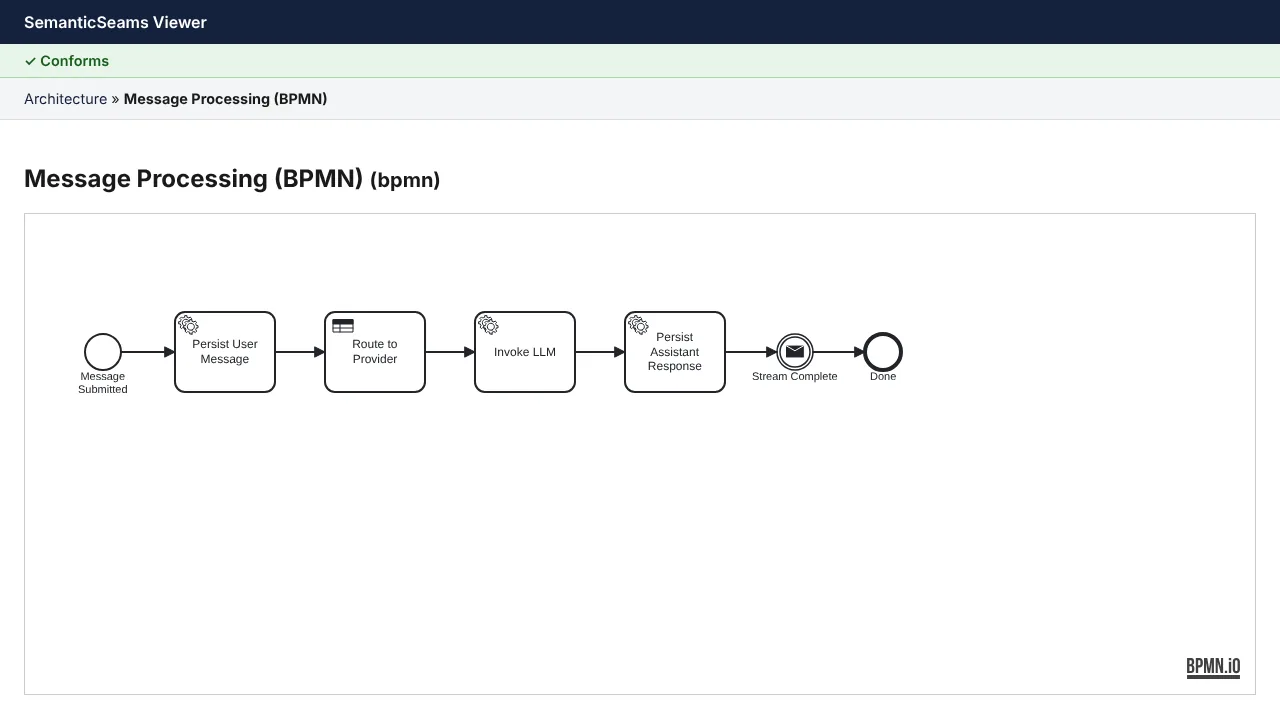
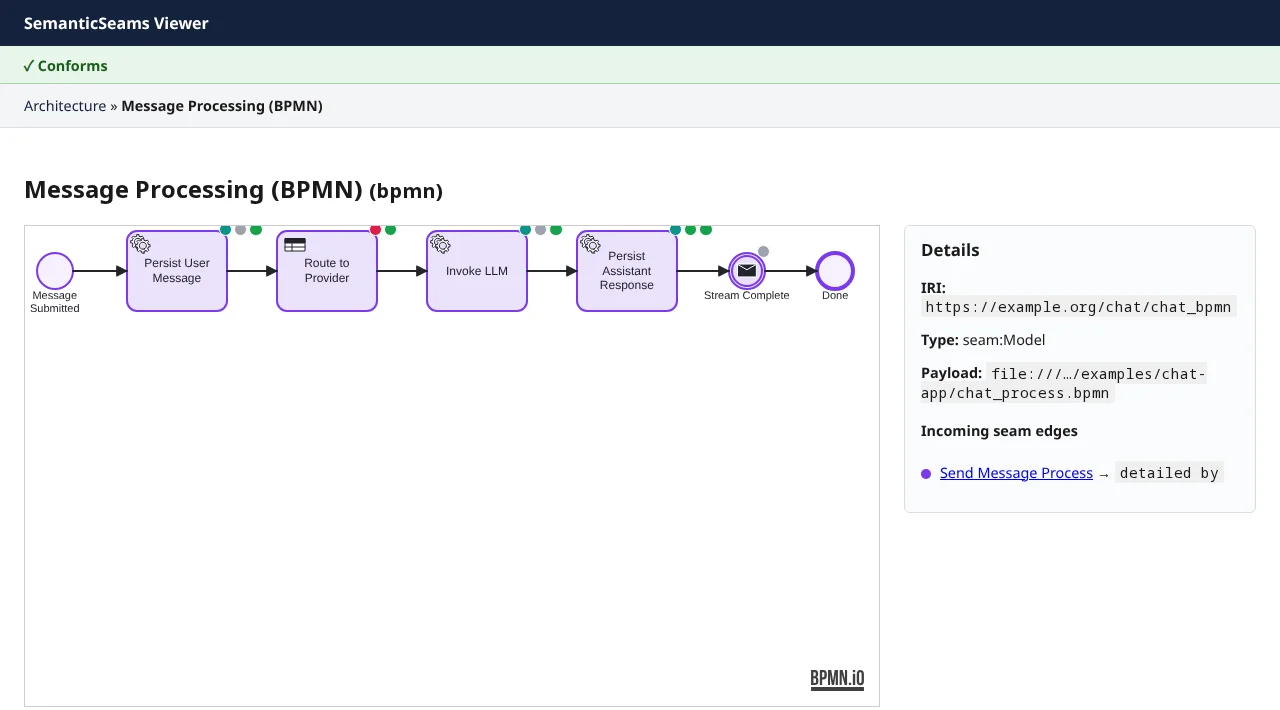
feat: BPMN view now tints shapes with --layer-process and draws one c...
- viewer/app.py
- viewer/templates/fragment.html
- viewer/templates/page.html
- tests/test_viewer_badges.py
- docs/guide/the-viewer.md
- docs/guide/img/viewer-process.webp

GSD context:
- Milestone: M007 - The Differentiators
- Slice: S01 - BPMN and DMN join the visual language
- Task: T01 - BPMN view now tints shapes with --layer-process and draws one clickable seam badge per outgoing seam, coloured by target layer, via payload_element_seams() and bpmn-js overlays

GSD-Task: S01/T01

diff --git a/viewer/templates/fragment.html b/viewer/templates/fragment.html
@@ -452,16 +452,48 @@
       })();
     </script>
   {% elif render_kind == "bpmn" %}
-    <div id="payload-canvas" style="height:480px;border:1px solid #ccc;"></div>
+    <div id="payload-canvas" class="payload-canvas" data-layer="process" style="height:480px;border:1px solid #ccc;"></div>
     <script>
       (function () {
         var elementMap = {{ element_map | tojson }};
+        var elementSeams = {{ element_seams | tojson }};
         var viewer = new BpmnJS({ container: "#payload-canvas", zoomScroll: { enabled: false } });
         fetch("{{ payload_url }}")
           .then(function (res) { return res.text(); })
           .then(function (xml) { return viewer.importXML(xml); })
           .then(function () {
-            viewer.get("canvas").zoom("fit-viewport");
+            var canvas = viewer.get("canvas");
+            canvas.zoom("fit-viewport");
+            // Layer tint: every shape (not root, connection or label) takes
+            // the process colour; seam members get the stronger marker.
+            var root = canvas.getRootElement();
+            viewer.get("elementRegistry").getAll().forEach(function (el) {
+              if (el === root || el.waypoints || el.type === "label") return;
+              canvas.addMarker(el.id, "seams-tinted");
+              if (elementMap[el.id]) canvas.addMarker(el.id, "seams-member");
+            });
+            // Seam badges: one per outgoing seam, coloured by target layer.
+            var overlays = viewer.get("overlays");
+            Object.keys(elementSeams).forEach(function (id) {
+              var div = document.createElement("div");
+              div.className = "seam-badges";
+              elementSeams[id].forEach(function (seam) {
+                var span = document.createElement("span");
+                span.className = "seam-badge";
+                span.setAttribute("data-layer", seam.targetLayer);
+                span.title = seam.predicateLabel + " \u2192 " + seam.targetLabel;
+                span.addEventListener("click", function (ev) {
+                  ev.stopPropagation();
+                  window.seamsNavigate(seam.target, "{{ next_path_qs }}", "{{ carried_level }}");
+                });
+                div.appendChild(span);
+              });
+              try {
+                overlays.add(id, "seam-badges", { position: { top: -8, right: 8 }, html: div });
+              } catch (err) {
+                console.error("seam badge overlay failed:", id, err);
+              }
+            });
             viewer.get("eventBus").on("element.click", function (e) {
               var iri = elementMap[e.element.id];
               if (iri) {

diff --git a/viewer/templates/page.html b/viewer/templates/page.html
@@ -59,6 +59,20 @@
     .seam-dot[data-layer="data"] { background: var(--layer-data); }
     .seam-dot[data-layer="lifecycle"] { background: var(--layer-lifecycle); }
     .seam-dot[data-layer="other"] { background: var(--layer-other); }
+    /* BPMN/DMN layer tint (bpmn-js/dmn-js set inline styles, hence !important) */
+    .payload-canvas[data-layer="process"] .djs-element.seams-tinted .djs-visual > :is(rect, circle, polygon) { stroke: var(--layer-process) !important; fill: color-mix(in srgb, var(--layer-process) 8%, white) !important; }
+    .payload-canvas[data-layer="process"] .djs-element.seams-member .djs-visual > :is(rect, circle, polygon) { stroke-width: 2px !important; fill: color-mix(in srgb, var(--layer-process) 16%, white) !important; }
+    .payload-canvas[data-layer="decision"] .djs-element.seams-tinted .djs-visual > :is(rect, circle, polygon) { stroke: var(--layer-decision) !important; fill: color-mix(in srgb, var(--layer-decision) 8%, white) !important; }
+    .payload-canvas[data-layer="decision"] .djs-element.seams-member .djs-visual > :is(rect, circle, polygon) { stroke-width: 2px !important; fill: color-mix(in srgb, var(--layer-decision) 16%, white) !important; }
+    .seam-badges { display: flex; gap: 2px; }
+    .seam-badge { display: inline-block; width: 0.7rem; height: 0.7rem; border-radius: 50%; border: 1px solid #fff; cursor: pointer; background: var(--layer-other); }
+    .seam-badge[data-layer="architecture"] { background: var(--layer-architecture); }
+    .seam-badge[data-layer="interaction"] { background: var(--layer-interaction); }
+    .seam-badge[data-layer="process"] { background: var(--layer-process); }
+    .seam-badge[data-layer="decision"] { background: var(--layer-decision); }
+    .seam-badge[data-layer="data"] { background: var(--layer-data); }
+    .seam-badge[data-layer="lifecycle"] { background: var(--layer-lifecycle); }
+    .seam-badge[data-layer="other"] { background: var(--layer-other); }
     .type-pill { display: inline-block; padding: 0.05rem 0.5rem; border-radius: 999px; background: #eef0f3; color: #444; font-size: 0.75rem; font-weight: 600; }
     .warning { color: #8a5300; background: #fff3cd; padding: 0.5rem 0.75rem; border-radius: 4px; margin-bottom: 0.5rem; }
     code { background: #f0f0f0; padding: 0.1rem 0.3rem; border-radius: 3px; }

diff --git a/tests/test_viewer_badges.py b/tests/test_viewer_badges.py
@@ -1,0 +1,93 @@
+"""Tests for the BPMN/DMN layer tint and seam overlay badges (M007/S01):
+viewer/app.py's payload_element_seams() (native id -> outgoing seams, self
+targets dropped) and the fragment/shell markup that draws them.
+"""
+
+import sys
+import xml.etree.ElementTree as ET
+from pathlib import Path
+from urllib.parse import quote
+
+import pytest
+
+ROOT = Path(__file__).resolve().parents[1]
+if str(ROOT) not in sys.path:
+    sys.path.insert(0, str(ROOT))
+
+from fastapi.testclient import TestClient  # noqa: E402
+
+from viewer import app as viewer_app  # noqa: E402
+
+CHAT = "https://example.org/chat/"
+CHAT_BPMN = f"{CHAT}chat_bpmn"
+BPMN_FILE = viewer_app.DATA_DIR / "chat_process.bpmn"
+SEAM_KEYS = {"predicate", "predicateLabel", "target", "targetLabel", "targetLayer"}
+
+
+@pytest.fixture
+def client():
+    return TestClient(viewer_app.app)
+
+
+def xml_ids(path: Path) -> set[str]:
+    return {i for el in ET.parse(path).iter() if (i := el.get("id"))}
+
+
+def view_path(iri: str) -> str:
+    return f"/view/{quote(iri, safe='')}"
+
+
+def test_bpmn_element_seams_keys_are_native_ids():
+    seams = viewer_app.payload_element_seams(CHAT_BPMN)
+    assert seams
+    assert set(seams) <= xml_ids(BPMN_FILE)
+
+
+def test_route_to_provider_has_decision_and_data_badges():
+    seams = viewer_app.payload_element_seams(CHAT_BPMN)["route_to_provider"]
+    assert any(
+        s["targetLayer"] == "decision" and s["target"] == f"{CHAT}routing_decision" for s in seams
+    )
+    assert any(s["targetLayer"] == "data" and s["target"] == f"{CHAT}MessageShape" for s in seams)
+
+
+def test_self_targets_dropped_and_empty_ids_omitted():
+    seams = viewer_app.payload_element_seams(CHAT_BPMN)
+    assert all(s["target"] != CHAT_BPMN for lst in seams.values() for s in lst)
+    # send_message_process's only seam is detailedBy chat_bpmn (the current view).
+    assert "send_message_process" not in seams
+    assert all(seams.values())
+
+
+def test_every_seam_entry_has_the_five_keys():
+    for lst in viewer_app.payload_element_seams(CHAT_BPMN).values():
+        for s in lst:
+            assert set(s) == SEAM_KEYS
+
+
+def test_bpmn_fragment_draws_tint_and_badges(client):
+    resp = client.get(view_path(CHAT_BPMN), headers={"hx-request": "true"})
+    assert resp.status_code == 200
+    html = resp.text
+    for needle in ("elementSeams", "seam-badge", 'get("overlays")', "seams-tinted", 'data-layer="process"'):
+        assert needle in html, needle
+    assert "seam badge overlay failed:" in html
+    # MEM009: the badge CSS lives in the shell, not the swapped fragment.
+    assert '.seam-badge[data-layer=' not in html
+
+
+def test_full_page_carries_badge_and_tint_css(client):
+    resp = client.get(view_path(CHAT_BPMN))
+    assert resp.status_code == 200
+    style = resp.text.split("<style>", 1)[1].split("</style>", 1)[0]
+    assert '.seam-badge[data-layer="decision"]' in style
+    assert "var(--layer-process)" in style
+    assert '.payload-canvas[data-layer="process"]' in style
+    assert '.payload-canvas[data-layer="decision"]' in style
+
+
+def test_json_contract_has_no_element_seams(client):
+    resp = client.get(f"{view_path(CHAT_BPMN)}?format=json")
+    assert resp.status_code == 200
+    assert "elementSeams" not in resp.json()
+    assert "element_seams" not in resp.json()

diff --git a/viewer/app.py b/viewer/app.py
@@ -329,6 +329,18 @@ def payload_element_map(model_iri: str) -> dict:
     return {short_name(m): m for m in model_members(model_iri)}
 
 
+def payload_element_seams(model_iri: str) -> dict[str, list[dict]]:
+    """Native element id -> its outgoing seams (card_seams shape), for the
+    overlay badges drawn on BPMN/DMN diagrams. Seams back to model_iri itself
+    are dropped (a badge would only re-open the current view), and so are ids
+    left with no seams, so a badge appears only for a seam in the graph."""
+    seams = {
+        native_id: [s for s in card_seams(iri) if s["target"] != model_iri]
+        for native_id, iri in payload_element_map(model_iri).items()
+    }
+    return {native_id: lst for native_id, lst in seams.items() if lst}
+
+
 def card_seams(iri: str) -> list[dict]:
     """Outgoing seam edges of iri as card dots, sorted by predicate then target."""
     edges = [
@@ -729,6 +741,8 @@ def view_endpoint(request: Request, iri: str, path: str = "", level: str = "", h
     elif render_kind in PAYLOAD_RENDERERS and view["renderPayload"]:
         ctx["payload_url"] = f"/payload/{quote(view['renderPayload'], safe='')}"
         ctx["element_map"] = payload_element_map(focus)
+        # Template-only (not in build_view), so the JSON contract is unchanged.
+        ctx["element_seams"] = payload_element_seams(focus)
 
     def link(iri_str: str) -> str:
         return href_for(iri_str, outgoing_trail, carried_level)

diff --git a/docs/guide/the-viewer.md b/docs/guide/the-viewer.md
@@ -34,6 +34,10 @@ one more hop along `seam:detailedBy` to the BPMN model that details it. The diag
 the native XML, drawn by bpmn-js. Clicking a task that takes part in a seam navigates
 again; a task's element ID in the XML is the fragment of its IRI in the graph.
 
+The shapes take the process layer colour. Each task with a seam carries small badges at
+its top edge, one per seam, coloured by the layer the seam leads to. Clicking a badge
+follows that seam, and hovering one names it.
+
 ### A choice
 
 ![The viewer asking which of two detail views to open for Route to Provider](./img/viewer-disambiguation.webp)
